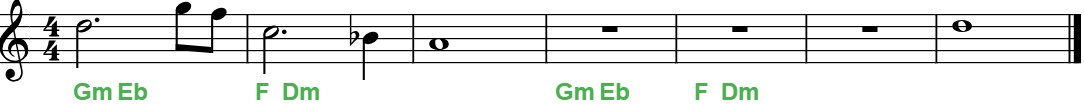
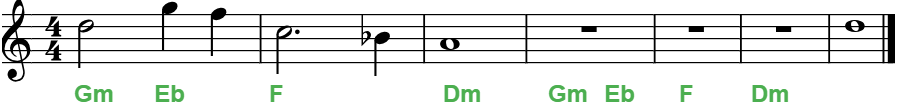
maxim5

diff --git a/index.html b/index.html
@@ -27038,6 +27038,7 @@ C#m                    A
 Сердце его теперь в твоих руках, -
 B              Abm
 Не потеряй его    и не сломай.
+<bblue>Transpose +2</bblue>
 <span class="square-green-button">4</span><span class="voice">EPiano / FullStrings</span>
 <img imagetype="scores" data-src="maxim.znaesh.5.png">
  Ebm            B
@@ -27078,7 +27079,7 @@ Ebm               B
 Сердце его теперь   в твоих руках, -
 C#             Bbm
 Не потеряй его     и не сломай.
-
+<bblue>Transpose +2</bblue>
 Fm              C#
 Чтоб не нести вдоль ночных дорог
 Eb                   Cm
@@ -27104,7 +27105,8 @@ Fm                C#
 Eb              Cm
 Не потеряй его     и не сломай.
 </chorus>
-<coda><span class="square-green-button">4</span><span class="voice">EPiano / FullStrings</span>
+<coda><bblue>Transpose +2</bblue>
+<span class="square-green-button">4</span><span class="voice">EPiano / FullStrings</span>
 <img imagetype="scores" data-src="maxim.znaesh.6.png">
 Gm              Eb
 Чтоб не нести вдоль ночных дорог